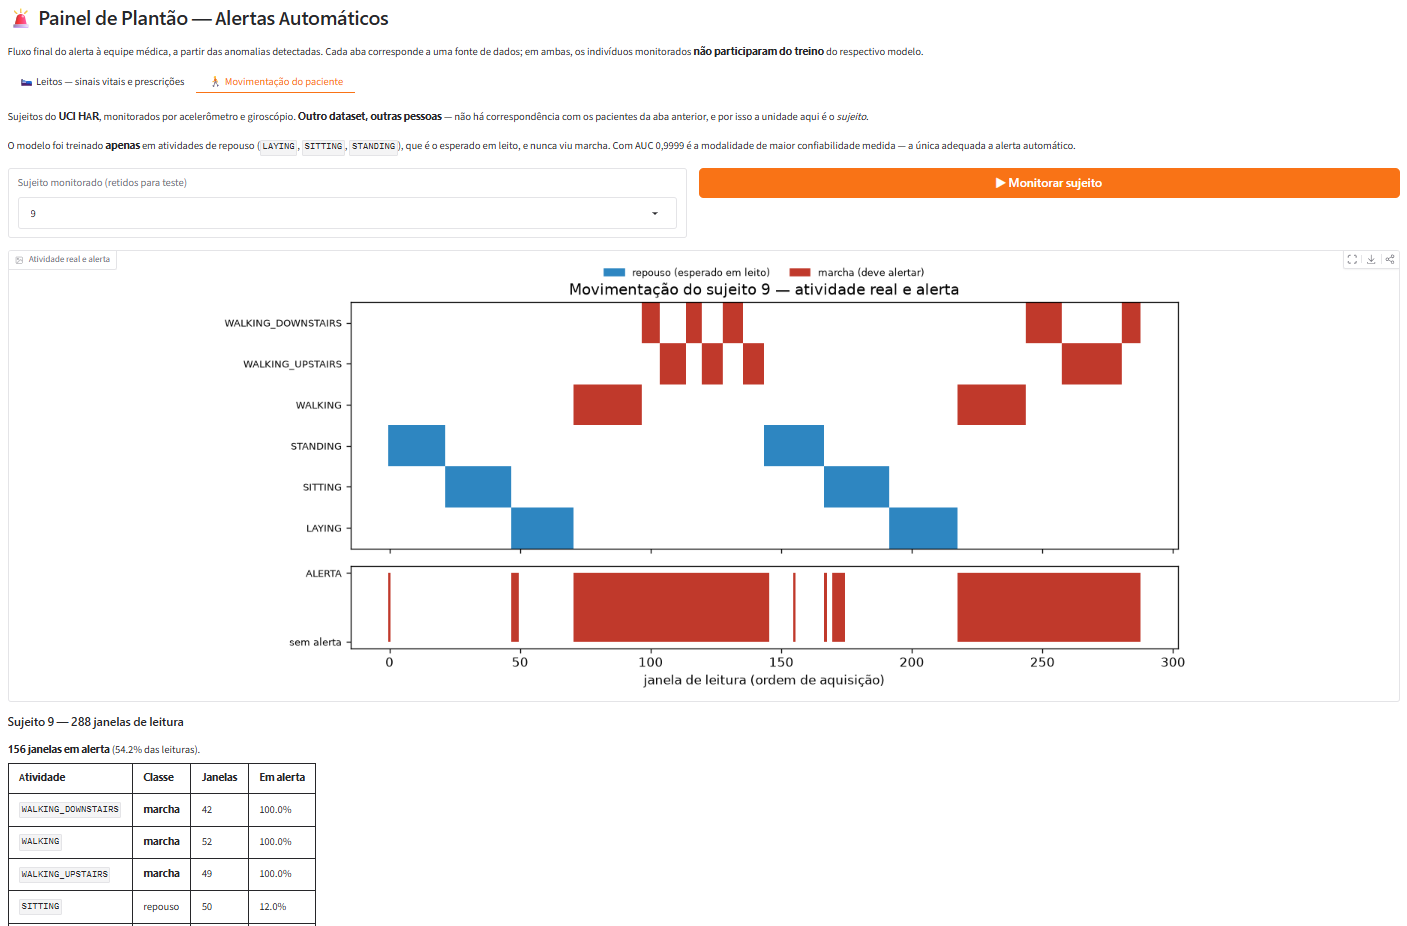
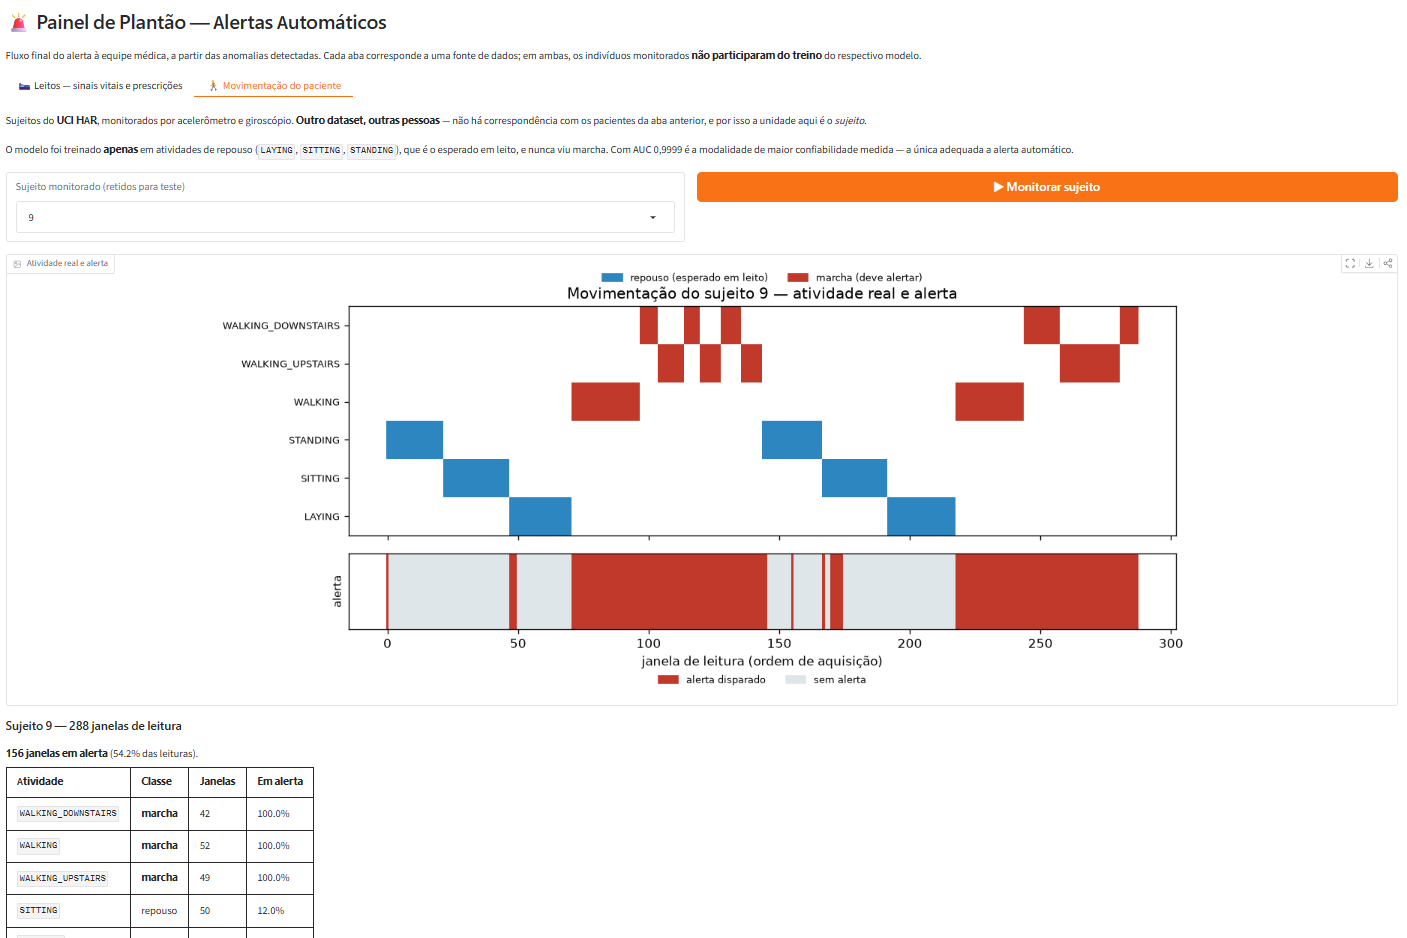
fix(anomalias): cabeçalho 'Janelas' era lido como índice, não como contagem
Na aba de movimentação, a coluna 'Janelas' informa quantas janelas de leitura o
sujeito passou em cada atividade. Mas o eixo x do gráfico também se chama 'janela de
leitura', e a linha 'WALKING_DOWNSTAIRS | 42' era lida como 'na janela 42 o sujeito
descia escada' — o que contradiz o gráfico, onde a janela 42 é SITTING.

Verificado nos dados do sujeito 9: janela 42 é SITTING sem alerta, e os disparos nas
janelas 0, 48 e 49 são falsos alarmes reais em repouso (12,0% em SITTING, 8,9% em
STANDING, 6,0% em LAYING). O gráfico estava certo; o cabeçalho é que induzia ao erro.

Cabeçalho passa a 'Total de janelas' e a saída ganha uma nota dizendo que a contagem
não é posição no eixo e que os disparos isolados sobre o fundo cinza são os falsos
alarmes esperados.

diff --git a/src/anomaly/app.py b/src/anomaly/app.py
@@ -191,7 +191,10 @@ def carregar_movimentacao(sujeito: int, progress=gr.Progress()):
     L = [f"### Sujeito {s['subject']} — {s['windows']} janelas de leitura", ""]
     L.append(f"**{s['alerts']} janelas em alerta** ({s['alert_rate']:.1%} das leituras).")
     L.append("")
-    L.append("| Atividade | Classe | Janelas | Em alerta |")
+    # "Janelas" como cabeçalho se confunde com o índice do eixo x, que também se chama
+    # "janela de leitura" — lido assim, "WALKING_DOWNSTAIRS | 42" parece dizer que na
+    # janela 42 o sujeito descia escada, quando são 42 janelas no total.
+    L.append("| Atividade | Classe | Total de janelas | Em alerta |")
     L.append("|---|---|---:|---:|")
     for atividade, linha in por_atividade.iterrows():
         classe = "repouso" if atividade in movement.REST_ACTIVITIES else "**marcha**"
@@ -201,6 +204,11 @@ def carregar_movimentacao(sujeito: int, progress=gr.Progress()):
     if s["recall_movement"] is not None:
         L.append(f"**Recall sobre marcha {s['recall_movement']:.1%}** · "
                  f"falso alarme no repouso {s['false_alarm_rate']:.1%}")
+        L.append("")
+        L.append("*A contagem é o total de janelas da atividade, não a posição no eixo do "
+                 "gráfico. Os disparos isolados sobre o fundo cinza são os falsos alarmes "
+                 "em repouso — comportamento esperado, ajustável pelo parâmetro de "
+                 "contaminação.*")
     return fig, "\n".join(L)
 
 
